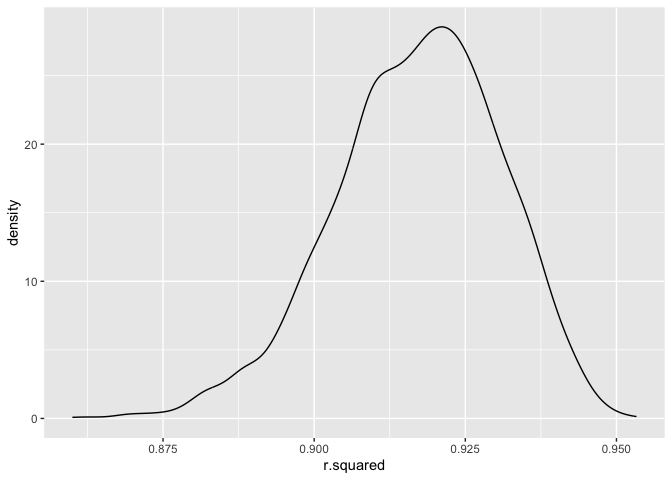
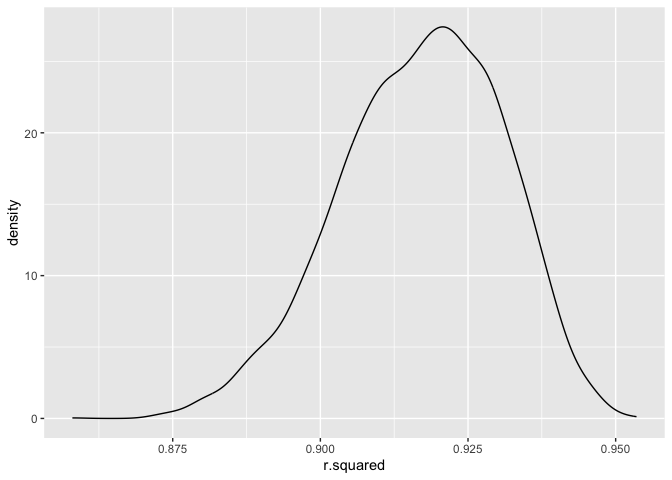
Add violin plot. Fix yaml and small reformating.

diff --git a/p8105_hw6_eih2108.md b/p8105_hw6_eih2108.md
@@ -1,25 +1,39 @@
-p8105_hw6_eih2108
+Homework 6
 ================
 Ekaterina Hofrenning
 2023-11-27
 
+``` r
+library(tidyverse)
+library(rnoaa)
+library(janitor)
+library(MASS)
+library(modelr)
+set.seed(254)
+```
+
+# Problem 1
+
+    The Washington Post has gathered data on homicides in 50 large U.S. cities and made the data available through a GitHub repository here. You can read their accompanying article here.
+
+    Create a city_state variable (e.g. “Baltimore, MD”), and a binary variable indicating whether the homicide is solved. Omit cities Dallas, TX; Phoenix, AZ; and Kansas City, MO – these don’t report victim race. Also omit Tulsa, AL – this is a data entry mistake. For this problem, limit your analysis those for whom victim_race is white or black. Be sure that victim_age is numeric.
+
+    For the city of Baltimore, MD, use the glm function to fit a logistic regression with resolved vs unresolved as the outcome and victim age, sex and race as predictors. Save the output of glm as an R object; apply the broom::tidy to this object; and obtain the estimate and confidence interval of the adjusted odds ratio for solving homicides comparing male victims to female victims keeping all other variables fixed.
+
+    Now run glm for each of the cities in your dataset, and extract the adjusted odds ratio (and CI) for solving homicides comparing male victims to female victims. Do this within a “tidy” pipeline, making use of purrr::map, list columns, and unnest as necessary to create a dataframe with estimated ORs and CIs for each city.
+
+    Create a plot that shows the estimated ORs and CIs for each city. Organize cities according to estimated OR, and comment on the plot.
+
 # Problem 2
 
-The boostrap is helpful when you’d like to perform inference for a
-parameter / value / summary that doesn’t have an easy-to-write-down
-distribution in the usual repeated sampling framework. We’ll focus on a
-simple linear regression with tmax as the response with tmin and prcp as
-the predictors, and are interested in the distribution of two quantities
-estimated from these data:
+    The boostrap is helpful when you’d like to perform inference for a parameter / value / summary that doesn’t have an easy-to-write-down distribution in the usual repeated sampling framework. We’ll focus on a simple linear regression with tmax as the response with tmin and prcp as the predictors, and are interested in the distribution of two quantities estimated from these data:
 
-- r^ 2
-- log(b1\*b2)
+    - r^2
+    - log(b1*b2)
 
-Use 5000 bootstrap samples and, for each bootstrap sample, produce
-estimates of these two quantities. Plot the distribution of your
-estimates, and describe these in words. Using the 5000 bootstrap
-estimates, identify the 2.5% and 97.5% quantiles to provide a 95%
-confidence interval for r^2 and log(b1\*b2).
+    Use 5000 bootstrap samples and, for each bootstrap sample, produce estimates of these two quantities. Plot the distribution of your estimates, and describe these in words. Using the 5000 bootstrap estimates, identify the 2.5% and 97.5% quantiles to provide a 95% confidence interval for r^2 and log(b1*b2).
+
+First, I read in the data and clean up some formatting issues.
 
 ``` r
 # read data
@@ -33,14 +47,11 @@ weather_df =
     name = recode(id, USW00094728 = "CentralPark_NY"),
     tmin = tmin / 10,
     tmax = tmax / 10) %>%
-  select(name, id, everything())
+  dplyr::select(name, id, everything())
 ```
 
-    ## using cached file: /Users/ekaterinahofrenning/Library/Caches/org.R-project.R/R/rnoaa/noaa_ghcnd/USW00094728.dly
-
-    ## date created (size, mb): 2023-11-27 16:19:07.658772 (8.544)
-
-    ## file min/max dates: 1869-01-01 / 2023-11-30
+Next, I run the 5000 bootstrapped models and extract the elements of
+interest.
 
 ``` r
 # run the bootstraps
@@ -51,10 +62,12 @@ bootstrap_df =
     models = map(strap, \(df) lm(tmax ~ tmin + prcp, data = df)),
     results = map(models, broom::tidy),
     rsquared = map(models, broom::glance)) %>%
-  select(results, rsquared) %>% unnest(rsquared) %>%
-  select(results, r.squared) %>% unnest(results) %>%
-  select(term, estimate, r.squared) 
+  dplyr::select(results, rsquared) %>% unnest(rsquared) %>%
+  dplyr::select(results, r.squared) %>% unnest(results) %>%
+  dplyr::select(term, estimate, r.squared) 
 ```
+
+Below, I plot the R^2 terms and calculate a CI for these values.
 
 ``` r
 # R^2 plot
@@ -71,7 +84,7 @@ bootstrap_df %>%
 r2_CI <-
   bootstrap_df %>%
   filter(term == "(Intercept)") %>%
-  select(r.squared) %>%
+  dplyr::select(r.squared) %>%
   summarize(ci_lower = quantile(r.squared, 0.025), 
             ci_upper = quantile(r.squared, 0.975))
 
@@ -85,7 +98,10 @@ r2_CI
 
 The distribution of the 5000 R-squared values has a slight left skew and
 is centered near .92. The 95% confidence interval of the R-squared
-values is between: 0.8876077 and 0.9410014.
+values is between: 0.8880127 and 0.9407232.
+
+Below, I plot the \*\*log(beta1\*beta2)\*\* estimates and calculate a
+confidence interval similar to above.
 
 ``` r
 # plot log(b1*b2)
@@ -118,10 +134,178 @@ log_b1b2_CI
     ## # A tibble: 1 × 3
     ##   NA_num ci_lower ci_upper
     ##    <int>    <dbl>    <dbl>
-    ## 1   3389    -9.05    -4.63
+    ## 1   3283    -8.92    -4.55
 
 The distribution of the 5000 **log(b1*b2)** values has a large left
 skew. It’s peak is around -5. When we take the log of negative values,
-NAs are produced. In this case, 3389 NAs were produced. Of those that
+NAs are produced. In this case, 3283 NAs were produced. Of those that
 are non-NA, the confidence interval for **log(b1*b2)** is between:
--9.0485823 and -4.6329551.
+-8.9172067 and -4.553434.
+
+# Problem 3
+
+    Load and clean the data for regression analysis (i.e. convert numeric to factor where appropriate, check for missing data, etc.).
+
+``` r
+bw <- read_csv("data/birthweight.csv") %>%
+  janitor::clean_names() %>%
+  mutate(
+    babysex = as.factor(babysex),
+    babysex = fct_recode(babysex, "male" = "1", "female" = "2"),
+    frace = as.factor(frace),
+    frace = fct_recode(frace, 
+                       "white" = "1", "black" = "2", "asian" = "3", 
+                       "puerto rican" = "4", "other" = "8"),
+    malform = as.logical(malform),
+    mrace = as.factor(mrace),
+    mrace = fct_recode(mrace, "white" = "1", "black" = "2", 
+                       "asian" = "3", "puerto rican" = "4")) %>%
+  drop_na()
+```
+
+    Propose a regression model for birthweight. This model may be based on a hypothesized structure for the factors that underly birthweight, on a data-driven model-building process, or a combination of the two. Describe your modeling process and show a plot of model residuals against fitted values – use add_predictions and add_residuals in making this plot.
+
+In order to choose model features, I will use a backward stepwise
+selection algorithm from the MASS package. This uses the Aikake’s
+Information Criteria (AIC) measure to kick out predictors one by one in
+order to find the most parsimonious model.
+
+``` r
+# My model (1)
+lm1 <- lm(bwt ~., data = bw)
+step <- stepAIC(lm1, direction = "backward", trace = FALSE)
+step %>% broom::tidy() %>% knitr::kable()
+```
+
+| term              |      estimate |   std.error |  statistic |   p.value |
+|:------------------|--------------:|------------:|-----------:|----------:|
+| (Intercept)       | -6098.8219113 | 137.5463421 | -44.340124 | 0.0000000 |
+| babysexfemale     |    28.5580171 |   8.4548958 |   3.377690 | 0.0007374 |
+| bhead             |   130.7770408 |   3.4465672 |  37.944144 | 0.0000000 |
+| blength           |    74.9471109 |   2.0190479 |  37.120027 | 0.0000000 |
+| delwt             |     4.1067316 |   0.3920592 |  10.474775 | 0.0000000 |
+| fincome           |     0.3180229 |   0.1747477 |   1.819898 | 0.0688436 |
+| gaweeks           |    11.5924873 |   1.4620657 |   7.928842 | 0.0000000 |
+| mheight           |     6.5940377 |   1.7848817 |   3.694383 | 0.0002231 |
+| mraceblack        |  -138.7924801 |   9.9070869 | -14.009414 | 0.0000000 |
+| mraceasian        |   -74.8867755 |  42.3146313 |  -1.769761 | 0.0768374 |
+| mracepuerto rican |  -100.6781427 |  19.3246910 |  -5.209819 | 0.0000002 |
+| parity            |    96.3046933 |  40.3362158 |   2.387549 | 0.0170038 |
+| ppwt              |    -2.6755853 |   0.4273585 |  -6.260752 | 0.0000000 |
+| smoken            |    -4.8434197 |   0.5855757 |  -8.271210 | 0.0000000 |
+
+Here is a residual plot for my model (residuals vs. fitted values):
+
+``` r
+bw %>%  
+  add_predictions(step) %>% 
+  add_residuals(step) %>% 
+  ggplot(aes(x = pred, y = resid)) + 
+  geom_point() +
+  labs(title = "Residuals vs. Fitted Values ", 
+       x = "Fitted",
+       y = "Residuals")
+```
+
+![](p8105_hw6_eih2108_files/figure-gfm/unnamed-chunk-8-1.png)<!-- -->
+
+    Compare your model to two others:
+
+    - One using length at birth and gestational age as predictors (main effects only)
+    - One using head circumference, length, sex, and all interactions (including the three-way interaction) between these
+
+    Make this comparison in terms of the cross-validated prediction error; use crossv_mc and functions in purrr as appropriate.
+
+Initialize Comparison Models:
+
+``` r
+# Comparison model (2)
+lm2 <- lm(bwt ~ blength + gaweeks, data = bw)
+lm2 %>% broom::tidy() %>% knitr::kable()
+```
+
+| term        |    estimate | std.error | statistic | p.value |
+|:------------|------------:|----------:|----------:|--------:|
+| (Intercept) | -4347.66707 | 97.958360 | -44.38281 |       0 |
+| blength     |   128.55569 |  1.989891 |  64.60439 |       0 |
+| gaweeks     |    27.04673 |  1.717930 |  15.74379 |       0 |
+
+``` r
+# Comparison model (3)
+lm3 <- lm(bwt ~ bhead*blength*babysex, data = bw)
+lm3 %>% broom::tidy() %>% knitr::kable()
+```
+
+| term                        |      estimate |    std.error |  statistic |   p.value |
+|:----------------------------|--------------:|-------------:|-----------:|----------:|
+| (Intercept)                 | -7176.8170221 | 1264.8397394 | -5.6740920 | 0.0000000 |
+| bhead                       |   181.7956350 |   38.0542051 |  4.7772811 | 0.0000018 |
+| blength                     |   102.1269235 |   26.2118095 |  3.8962180 | 0.0000992 |
+| babysexfemale               |  6374.8683508 | 1677.7669213 |  3.7996150 | 0.0001469 |
+| bhead:blength               |    -0.5536096 |    0.7802092 | -0.7095656 | 0.4780117 |
+| bhead:babysexfemale         |  -198.3931810 |   51.0916850 | -3.8830816 | 0.0001047 |
+| blength:babysexfemale       |  -123.7728875 |   35.1185360 | -3.5244319 | 0.0004288 |
+| bhead:blength:babysexfemale |     3.8780531 |    1.0566296 |  3.6702106 | 0.0002453 |
+
+CV Prediction Error:
+
+Numerically showing the RMSE for each model:
+
+``` r
+cv_df <-
+  crossv_mc(bw, 100) %>% 
+  mutate(
+    train = map(train, as_tibble), 
+    test = map(test, as_tibble))
+
+cv_comp <-
+cv_df %>% 
+  mutate(
+    mod_mine  = map(train, ~lm(bwt ~ babysex + bhead + blength + delwt + fincome + 
+    gaweeks + mheight + mrace + parity + ppwt + smoken, data = .x)),
+    mod2  = map(train, ~lm(bwt ~ gaweeks + blength, data = .x)),
+    mod3  = map(train, ~lm(bwt ~ bhead*blength*babysex, data = .x))) %>% 
+  mutate(
+    rmse_mine = map2_dbl(mod_mine, test, ~rmse(model = .x, data = .y)),
+    rmse_2  = map2_dbl(mod2, test, ~rmse(model = .x, data = .y)),
+    rmse_3 = map2_dbl(mod3, test, ~rmse(model = .x, data = .y))) %>% 
+  summarize(
+    avg_rmse_mod_mine = mean(rmse_mine),
+    avg_rmse_mod2 = mean(rmse_2),
+    avg_rmse_mod3 = mean(rmse_3))
+
+cv_comp
+```
+
+    ## # A tibble: 1 × 3
+    ##   avg_rmse_mod_mine avg_rmse_mod2 avg_rmse_mod3
+    ##               <dbl>         <dbl>         <dbl>
+    ## 1              272.          335.          289.
+
+Plotting RMSE for each model:
+
+``` r
+cv_df %>% 
+  mutate(mod_mine  = map(train, ~lm(bwt ~ babysex + bhead + blength + delwt + 
+                                      fincome + gaweeks + mheight + mrace + parity + 
+                                      ppwt + smoken, data = .x)),
+         mod_comp1  = map(train, ~lm(bwt ~ gaweeks + blength, data = .x)),
+         mod_comp2  = map(train, ~lm(bwt ~ bhead*blength*babysex, data = .x))) %>% 
+  mutate(rmse_mine = map2_dbl(mod_mine, test, ~rmse(model = .x, data = .y)),
+         rmse_comp1  = map2_dbl(mod_comp1, test, ~rmse(model = .x, data = .y)),
+         rmse_comp2 = map2_dbl(mod_comp2, test, ~rmse(model = .x, data = .y))) %>%
+  dplyr::select(rmse_mine, rmse_comp1, rmse_comp2) %>%  
+  pivot_longer(everything(),
+               names_to = "model", 
+               values_to = "rmse",
+               names_prefix = "rmse_") %>% 
+  mutate(model = fct_inorder(model)) %>% 
+  ggplot(aes(x = model, y = rmse)) + 
+  geom_violin(aes(fill = model))
+```
+
+![](p8105_hw6_eih2108_files/figure-gfm/unnamed-chunk-11-1.png)<!-- -->
+
+The average RMSE is lowest for my model (272.3666521)compared to the 2
+models defined above, compared to 335.3044093 for the first comparison
+model and 288.9875119 for the second comparison model.
